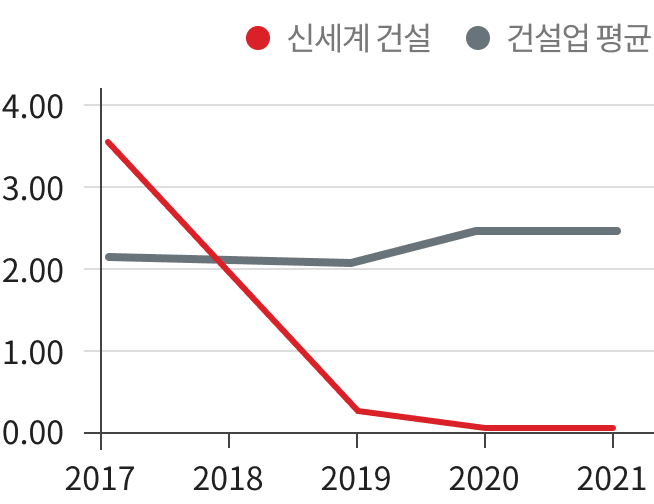
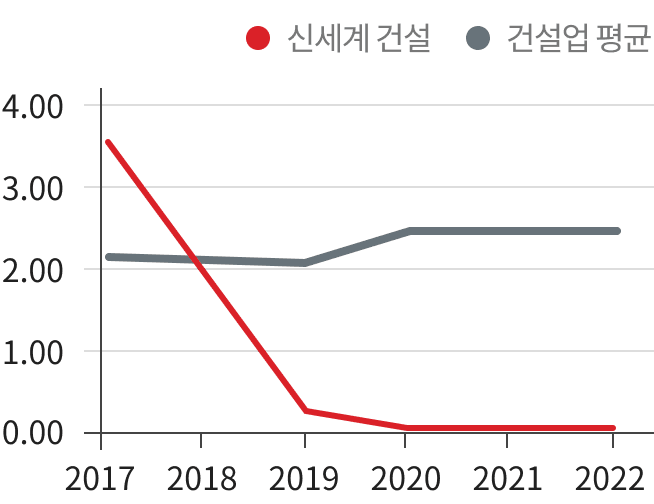
안전보건경영 - 재해현황

diff --git a/src/html/csr/cr_01_05.html b/src/html/csr/cr_01_05.html
@@ -250,13 +250,14 @@
             <table class="tbl-list">
               <caption><span class="blind">재해현황 정보</span></caption>
               <colgroup>
-                <col style="width:15%;">
-                <col style="width:15%;">
                 <col style="width:14%;">
                 <col style="width:14%;">
-                <col style="width:14%;">
-                <col style="width:14%;">
-                <col style="width:14%;">
+                <col style="width:12%;">
+                <col style="width:12%;">
+                <col style="width:12%;">
+                <col style="width:12%;">
+                <col style="width:12%;">
+                <col style="width:12%;">
               </colgroup>
               <thead>
               <tr>
@@ -266,12 +267,14 @@
                 <th scope="col">2019</th>
                 <th scope="col">2020</th>
                 <th scope="col">2021</th>
+                <th scope="col">2022</th>
               </tr>
               </thead>
               <tbody>
               <tr>
                 <th scope="row" rowspan="2">사망자</th>
                 <th scope="row">임직원</th>
+                <td>0</td>
                 <td>0</td>
                 <td>0</td>
                 <td>0</td>
@@ -285,6 +288,7 @@
                 <td>0</td>
                 <td>0</td>
                 <td>0</td>
+                <td>0</td>
               </tr>
               <tr>
                 <th scope="row" rowspan="2">만인율</th>
@@ -292,6 +296,7 @@
                 <td>3.52</td>
                 <td>1.85</td>
                 <td>0.28</td>
+                <td>0.00</td>
                 <td>0.00</td>
                 <td>0.00</td>
               </tr>
@@ -302,6 +307,7 @@
                 <td>2.01</td>
                 <td>2.5</td>
                 <td>2.2</td>
+                <td>2.06</td>
               </tr>
               </tbody>
             </table>

diff --git a/src/html_en/csr/cr_01_05.html b/src/html_en/csr/cr_01_05.html
@@ -245,13 +245,14 @@
 	          <table class="tbl-list">
 		          <caption><span class="blind">재해현황 정보</span></caption>
 		          <colgroup>
-			          <col style="width:15%;">
-			          <col style="width:15%;">
 			          <col style="width:14%;">
 			          <col style="width:14%;">
-			          <col style="width:14%;">
-			          <col style="width:14%;">
-			          <col style="width:14%;">
+			          <col style="width:12%;">
+			          <col style="width:12%;">
+			          <col style="width:12%;">
+			          <col style="width:12%;">
+			          <col style="width:12%;">
+			          <col style="width:12%;">
 		          </colgroup>
 		          <thead>
 		          <tr>
@@ -261,12 +262,14 @@
 			          <th scope="col">2019</th>
 			          <th scope="col">2020</th>
 			          <th scope="col">2021</th>
+			          <th scope="col">2022</th>
 		          </tr>
 		          </thead>
 		          <tbody>
 		          <tr>
 			          <th scope="row" rowspan="2">Casualties</th>
 			          <th scope="row">Employee</th>
+			          <td>0</td>
 			          <td>0</td>
 			          <td>0</td>
 			          <td>0</td>
@@ -280,6 +283,7 @@
 			          <td>0</td>
 			          <td>0</td>
 			          <td>0</td>
+			          <td>0</td>
 		          </tr>
 		          <tr>
 			          <th scope="row" rowspan="2">Mortality rate</th>
@@ -287,6 +291,7 @@
 			          <td>3.52</td>
 			          <td>1.85</td>
 			          <td>0.28</td>
+			          <td>0.00</td>
 			          <td>0.00</td>
 			          <td>0.00</td>
 		          </tr>
@@ -297,6 +302,7 @@
 			          <td>2.01</td>
 			          <td>2.5</td>
 			          <td>2.2</td>
+			          <td>2.06</td>
 		          </tr>
 		          </tbody>
 	          </table>
